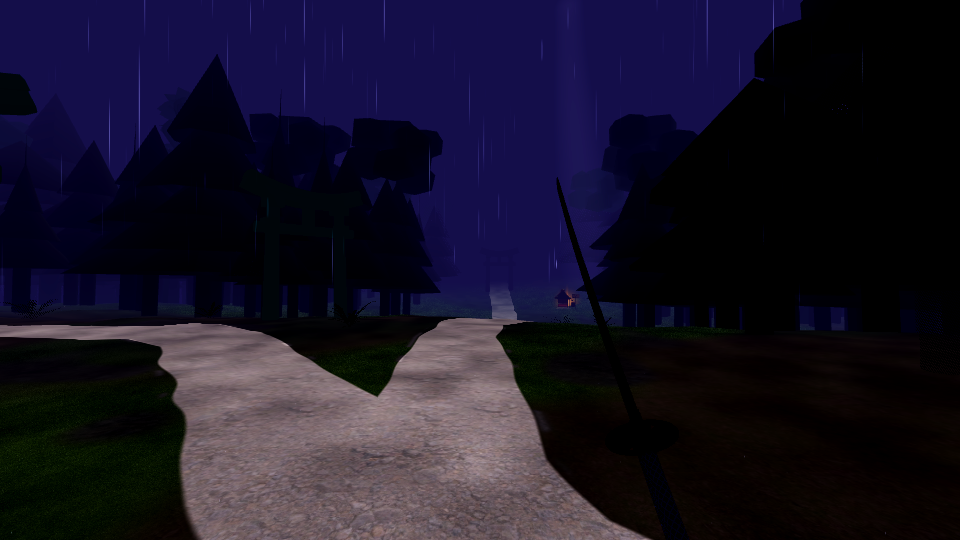
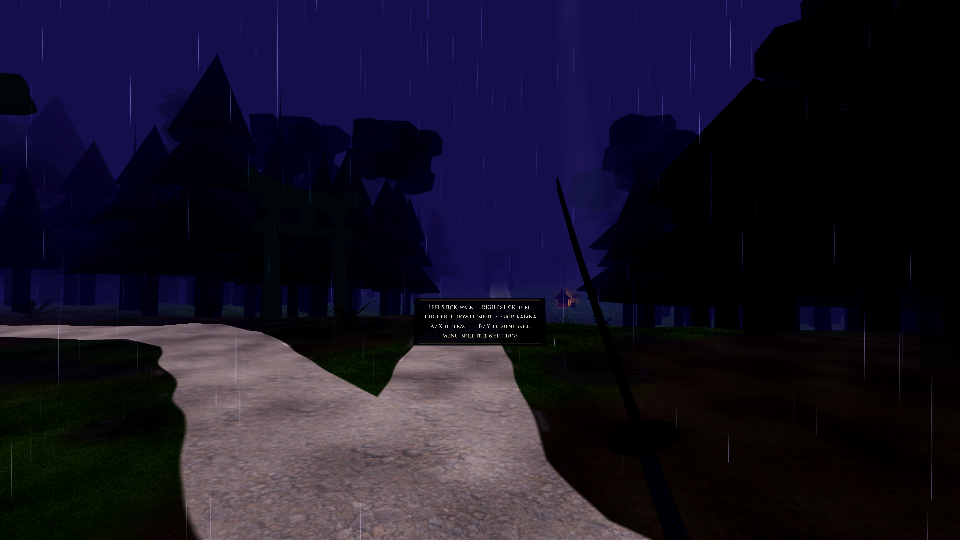
fix(f4): controls hint faces the eyes and draws over the world (no_depth_test, 1.5 m), shots wait for real drawn frames; controls map callouts one line at 74 px, rules clear of the footer

Changed region(s): [[0.4062, 0.5333, 0.5938, 0.6519]]

diff --git a/docs/f4/CONTROLS.md b/docs/f4/CONTROLS.md
@@ -76,11 +76,15 @@ on the menu's CONTROLS page.
 - `before_01_run_start.png` / `after_01_run_start_hint.png`
 - `after_02_controls_map.png`
 
-## Known issue (open)
-The windowed pixel check (`tests/f4_controls_shots.tscn`) **fails**: in
-`after_01_run_start_hint.png` the hint plate is NOT visible, although the node is in the
-tree, visible, alpha 1, placed 1.35 m in front of the desktop camera (projects to the
-lower centre of the frame). Not yet diagnosed (time limit) — suspects: the unshaded
-transparent quads / Label3D under gl_compatibility in this scene (draw order vs. fog/rain),
-or the plate facing. The headless logic tests (show once, fade, dismiss on walk) pass.
-`after_02_controls_map.png` shows the menu's CONTROLS page with the F4 table.
+## Round 1 fixes (review of b3df9b7)
+- **Hint not in the shots**: the capture waited physics frames; on slow xvfb several
+  physics frames fall into one rendered frame, so before/after were the same stale image
+  (byte-identical, rain included). The shot now waits `RenderingServer.frame_post_draw`.
+  The plate also faced away from the eyes (Label3D text would read mirrored in VR) — fixed;
+  it is now 1.5 m ahead, drawn like the Oni speech bubble (`no_depth_test`, render
+  priority 10–15, no fog) so trees/rain never hide it. Pixel check: 92 % dark plate px,
+  5.5 % bright text px in its box (before: 0 %).
+- **Controls map overlaps**: callout bodies are one line (short texts in `SCHEME`), rows at a
+  74 px pitch, the three rule lines moved up (792/824/856) clear of the footer at 918.
+- Open: on the 960×540 desktop shot the hint is small (≈13 % of the frame width); in the
+  headset it is ≈21° wide at 1.5 m.
